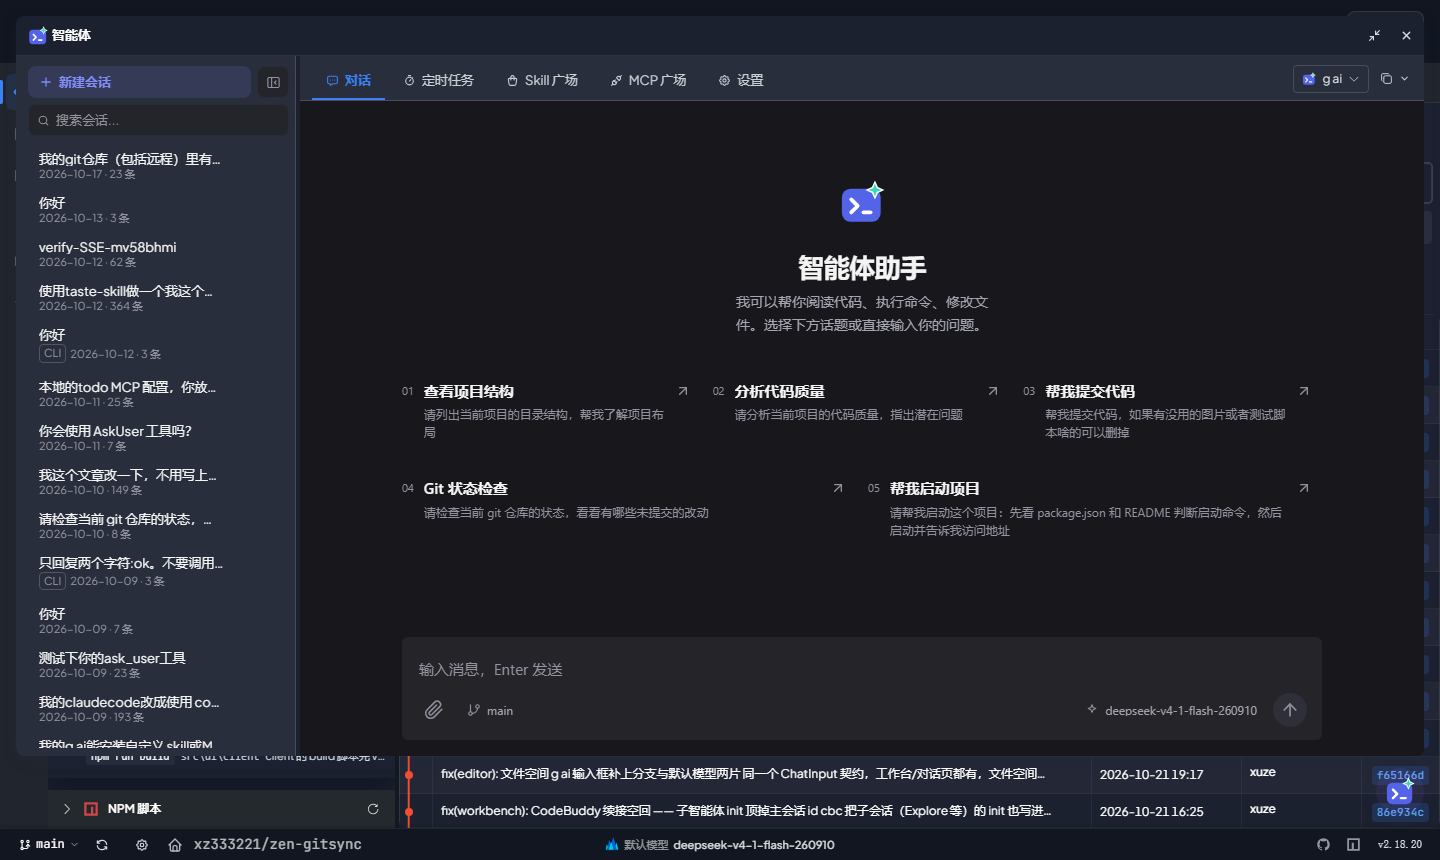
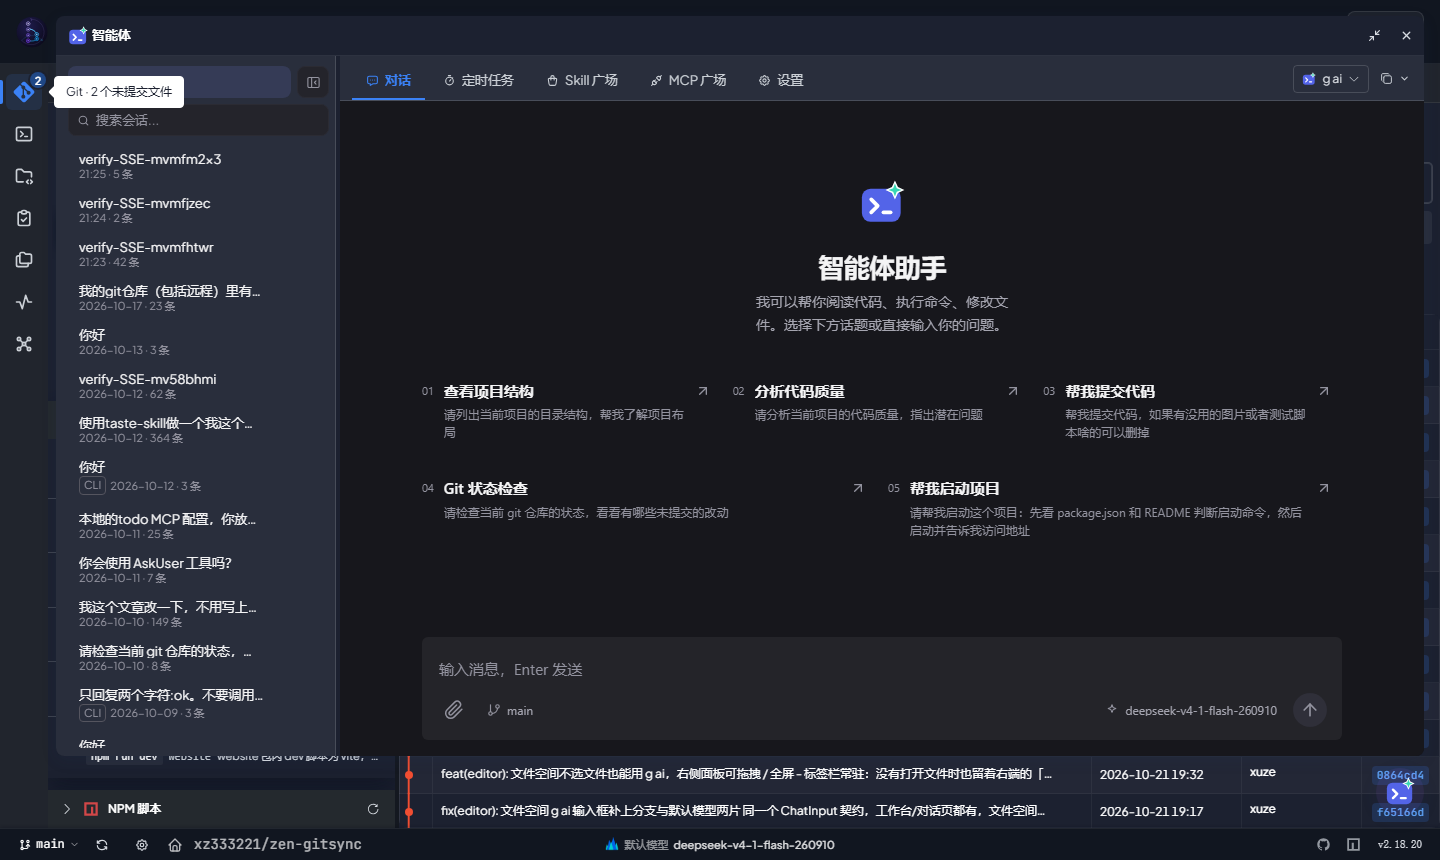
fix(agent-dock): 最大化让出左侧活动栏，截图脚本先收起 dock
最大化面板原来从 16px 起铺，盖住活动栏后用户没法切视图（要切得先还原）。
改为从活动栏右侧（56px）起铺，宽度 calc(100vw - 72px)，与旧智能体 tab 的
占位一致。

capture-ui-shots：活动栏豁免关闭后，切视图不再自动收 dock，10b 截完要显式
点 ✕，否则后面每张图都被面板挡住。

diff --git a/src/ui/client/src/components/AgentDock.vue b/src/ui/client/src/components/AgentDock.vue
@@ -351,9 +351,11 @@ onBeforeUnmount(() => {
   box-shadow: var(--shadow-hover);
   overflow: hidden;
 
-  /* 最大化：近满屏。宽度 ≥680 时 AgentView 自动进宽屏两栏（会话列表 + 对话并排） */
+  /* 最大化：近满屏，但**让出左侧活动栏**（48px + 边距）—— 否则最大化态会盖住
+     视图切换按钮，用户想切视图得先还原；旧智能体 tab 也是从活动栏右侧铺开的。
+     宽度 ≥680 时 AgentView 自动进宽屏两栏（会话列表 + 对话并排） */
   &.is-maximized {
-    width: calc(100vw - 32px);
+    width: calc(100vw - 72px);
     height: calc(100vh - 120px);
   }
 
